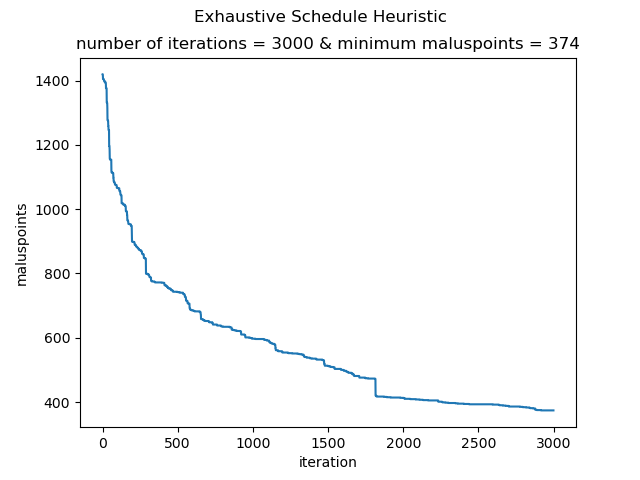
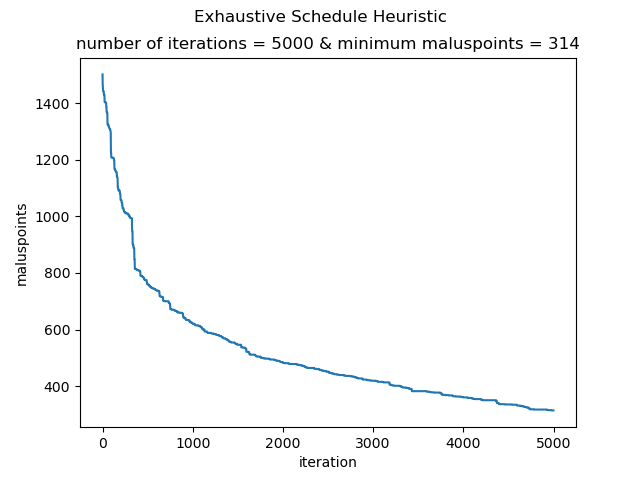
added an experiment

diff --git a/code/algorithms/exhaustive_climber.py b/code/algorithms/exhaustive_climber.py
@@ -10,6 +10,7 @@ class ExhaustiveClimber(Hillclimber):
 
     TODOs:
     - test 
+    - figure out where to put the room capacity constraints method. 
     """
 
     def __init__(self, empty_schedule : Schedule):
@@ -42,6 +43,46 @@ class ExhaustiveClimber(Hillclimber):
             # remove room from still available 
             self.archive.remove((room, day, time))
 
+    def switch_activities(self):
+        """
+        Experimental variation on method in Algorithm Class: 
+        - only switches if no resulting overcapacity!  
+
+        Switches the activities from two randomly chosen roomslots. Activity may
+        also be None.
+        """
+        switch_enable = False 
+
+        while not switch_enable:
+        
+            # store room, day, and time of roomslots
+            random_roomslot1, random_roomslot2 = self.pick_roomslots_to_switch()
+            room_1, day_1, time_1 = self.get_roomslot_info(random_roomslot1)
+            room_2, day_2, time_2 = self.get_roomslot_info(random_roomslot2)
+
+            # save activities in roomslots
+            activity_1 = room_1.schedule[day_1][time_1]
+            activity_2 = room_2.schedule[day_2][time_2]
+
+            # if activity is Activity instance, schedule instance
+            if activity_1:
+                activity_1.schedule(room_2, day_2, time_2)
+            if activity_2:
+                activity_2.schedule(room_1, day_1, time_1)
+            
+            print(f' students in activity 2 {len(activity_2.students)} capacity room 1 {room_1.capacity}')
+            print(f' students in activity 1 {len(activity_1.students)} capacity room 2 {room_2.capacity}')
+
+            # make sure capacity is not violated 
+            if len(activity_2.students) < room_1.capacity and len(activity_1.students) < room_2.capacity: 
+                
+                switch_enable = True 
+
+            # switch the activities to the other roomslot in room instance
+            room_1.schedule[day_1][time_1] = activity_2
+            room_2.schedule[day_2][time_2] = activity_1
+
+            self.update_student_schedules()
         
 
         
